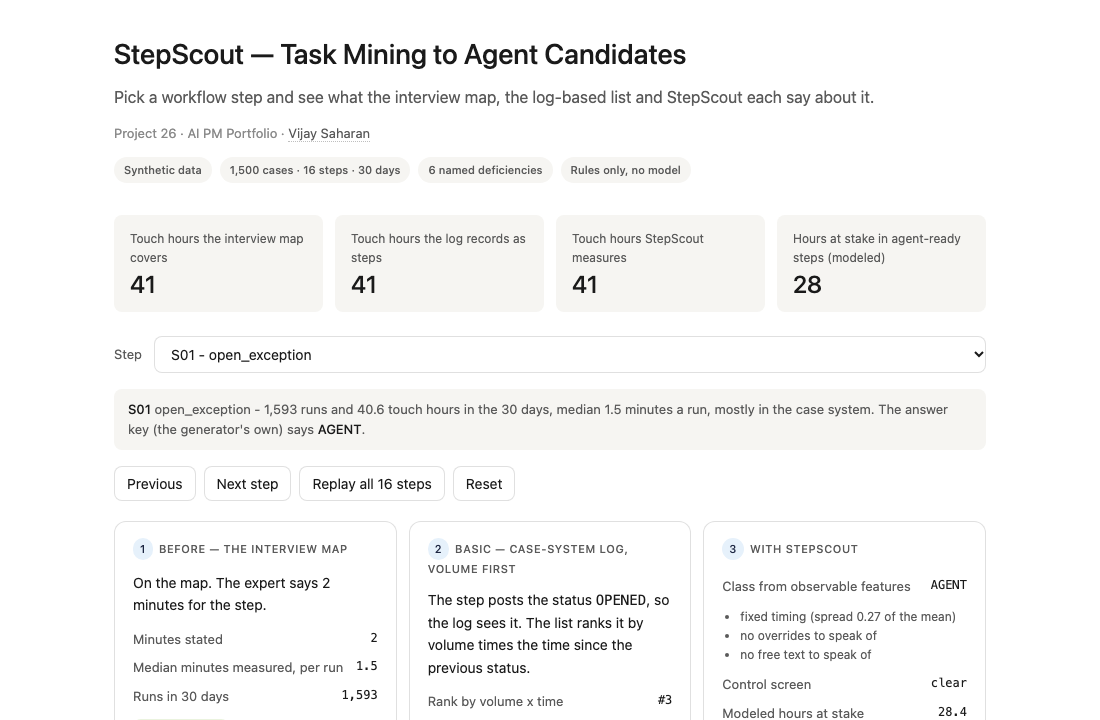
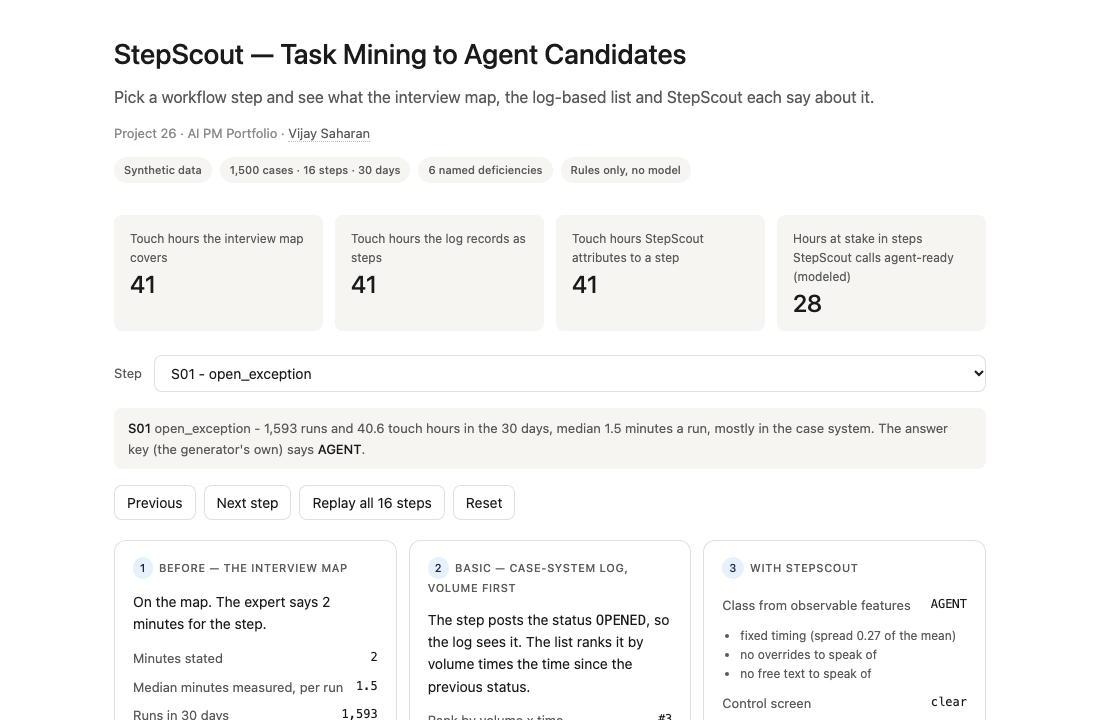
StepScout: document the extra columns load_all reads and define answer key on the first screen
Also: the demo's preview alt text now says 77 runnable prototypes.

diff --git a/26-stepscout-task-mining-agent-candidates/demo.html b/26-stepscout-task-mining-agent-candidates/demo.html
@@ -13,12 +13,12 @@
 <meta property="og:image" content="https://vj-shipped-anyway.github.io/ai-pm-portfolio/assets/og-card.png">
 <meta property="og:image:width" content="1200">
 <meta property="og:image:height" content="630">
-<meta property="og:image:alt" content="AI PM portfolio card: How AI gets into bank operations, 27 runnable prototypes on synthetic data">
+<meta property="og:image:alt" content="AI PM portfolio card: How AI gets into bank operations, 77 runnable prototypes on synthetic data">
 <meta name="twitter:card" content="summary_large_image">
 <meta name="twitter:title" content="StepScout — Task Mining to Agent Candidates">
 <meta name="twitter:description" content="Mines desktop and system events to find which workflow steps an agent can take over, screens them for controls, and writes the build brief.">
 <meta name="twitter:image" content="https://vj-shipped-anyway.github.io/ai-pm-portfolio/assets/og-card.png">
-<meta name="twitter:image:alt" content="AI PM portfolio card: How AI gets into bank operations, 27 runnable prototypes on synthetic data">
+<meta name="twitter:image:alt" content="AI PM portfolio card: How AI gets into bank operations, 77 runnable prototypes on synthetic data">
 <link rel="canonical" href="https://vj-shipped-anyway.github.io/ai-pm-portfolio/26-stepscout-task-mining-agent-candidates/demo.html">
[1 lines of base64/hex data omitted]
 <style>

diff --git a/26-stepscout-task-mining-agent-candidates/src/step_04_with_stepscout.py b/26-stepscout-task-mining-agent-candidates/src/step_04_with_stepscout.py
@@ -14,10 +14,10 @@ What it does, in order
   4. RANK. Modeled hours at stake times readiness. Hours at stake is touch time in the 30 days times ONE
      named assumption: the share of a step's touch time an agent removes (REMOVAL_SHARE). It is modeled,
      never measured.
-  5. BRIEF. Write build-brief/v1 files for the top candidates and validate them with a stdlib check.
-  6. SCORE against the answer key, which is the generator's own: accuracy, precision and recall of
+  5. SCORE against the answer key, which is the generator's own: accuracy, precision and recall of
      agent-ready steps, the top 10 against the volume-first list, the share of handling time recovered,
      and the known miss.
+  6. BRIEF. Write build-brief/v1 files for the top candidates and validate them with a stdlib check.
 
 Run (from src/):
     python3 step_04_with_stepscout.py
@@ -50,7 +50,7 @@ N_BRIEFS = 3
 OCC_GAP_S = 600                      # two events of one step more than 10 minutes apart are two occurrences
 JUDGE_OVERRIDE, JUDGE_TEXT, JUDGE_REPEAT, JUDGE_CV, JUDGE_NEED = 0.20, 200.0, 1.30, 0.50, 2
 HITL_OVERRIDE, HITL_TEXT, HITL_WRITE, HITL_OUTWARD = 0.05, 80.0, 0.50, 0.50
-STATUS_TOLERANCE_S = (-5, 120)       # an occurrence ends from 5 seconds after to 120 seconds before its status event
+STATUS_TOLERANCE_S = (-5, 120)       # an occurrence ends from 120 seconds before to 5 seconds after its status event
 READ_ACTIONS = ("read", "search", "open", "copy")
 BRIEF_SCHEMA = "build-brief/v1"
 
@@ -229,7 +229,7 @@ def rank_candidates(classes: dict, stats: dict, register: dict, screen: dict) ->
 
 
 # ---------------------------------------------------------------------------
-# 5. Build briefs
+# 6. Build briefs (defined here; analyze() runs it after the scoring in step 5)
 # ---------------------------------------------------------------------------
 BRIEF_KEYS = ["schema", "brief_id", "candidate", "scope", "inputs", "tools", "controls", "acceptance", "test_plan",
               "rollout", "handoff", "estimate"]
@@ -440,7 +440,7 @@ def validate_brief(b: dict) -> list:
 
 
 # ---------------------------------------------------------------------------
-# 6. Score and assemble
+# 5. Score and assemble
 # ---------------------------------------------------------------------------
 def analyze(data: dict) -> dict:
     reg, key = data["register"], data["key"]

diff --git a/26-stepscout-task-mining-agent-candidates/src/app.py b/26-stepscout-task-mining-agent-candidates/src/app.py
@@ -335,7 +335,7 @@ if st.session_state.step >= 3:
         tone, verdict = "verdict-pass", f"Matches the answer key ({esc(P['key'])})."
     elif P["agent_ready_pred"] and not P["agent_ready_key"]:
         tone = "verdict-review"
-        verdict = (f"MISSED. The key says {esc(P['key'])}. On the desktop this step is a short pick with tight timing, no free text and no overrides, "
+        verdict = (f"MISSED. The key says {esc(P['key'])}. On the desktop this step is a short pick with tight timing, no free text and almost no overrides, "
                    "so nothing observable separates it from a rule. The judgment happens in a phone call that no file records.")
     else:
         tone = "verdict-review"
@@ -416,7 +416,7 @@ if st.session_state.step >= 4:
     st.markdown("<div class='trust-card quiet'><h4>What it still gets wrong</h4><ul>" + "".join(f"<li>{esc(w)}</li>" for w in wrong if w) + "</ul></div>",
                 unsafe_allow_html=True)
 
-    st.markdown("**Touch hours by step, coloured by the class StepScout gave it**")
+    st.markdown("**Touch hours by step, colored by the class StepScout gave it**")
     st.caption("From desktop events. Blue steps are candidates; grey steps stay with a person.")
     colors = {"AGENT": "#059669", "AGENT_HITL": "#1f5fb0", "HUMAN_JUDGMENT": "#94a3b8", "HUMAN_CONTROL": "#64748b"}
     fig = go.Figure()
@@ -460,7 +460,6 @@ if st.session_state.step >= 4:
             "touch hours": round(r["touch_hours"], 1), "hours at stake (modeled)": round(r["hours_at_stake"], 1),
             "control screen": r["screen"]} for r in A["ranked"]]), use_container_width=True, hide_index=True)
         st.markdown("**The two top-10 lists side by side**")
-        vf = {r["step"]: r["rank"] for r in A["log"]["candidates"]}
         st.dataframe(pd.DataFrame([{
             "position": i + 1,
             "volume-first": f"{a} {DATA['register'][a]['name']}", "volume-first: agent-ready by key": "yes" if a in SC["true_ready"] else "no",

diff --git a/26-stepscout-task-mining-agent-candidates/src/_build_demo.py b/26-stepscout-task-mining-agent-candidates/src/_build_demo.py
@@ -301,12 +301,12 @@ def build_html(p: dict) -> str:
 <meta property="og:image" content="https://vj-shipped-anyway.github.io/ai-pm-portfolio/assets/og-card.png">
 <meta property="og:image:width" content="1200">
 <meta property="og:image:height" content="630">
-<meta property="og:image:alt" content="AI PM portfolio card: How AI gets into bank operations, 27 runnable prototypes on synthetic data">
+<meta property="og:image:alt" content="AI PM portfolio card: How AI gets into bank operations, 77 runnable prototypes on synthetic data">
 <meta name="twitter:card" content="summary_large_image">
 <meta name="twitter:title" content="StepScout — Task Mining to Agent Candidates">
 <meta name="twitter:description" content="Mines desktop and system events to find which workflow steps an agent can take over, screens them for controls, and writes the build brief.">
 <meta name="twitter:image" content="https://vj-shipped-anyway.github.io/ai-pm-portfolio/assets/og-card.png">
-<meta name="twitter:image:alt" content="AI PM portfolio card: How AI gets into bank operations, 27 runnable prototypes on synthetic data">
+<meta name="twitter:image:alt" content="AI PM portfolio card: How AI gets into bank operations, 77 runnable prototypes on synthetic data">
 <link rel="canonical" href="https://vj-shipped-anyway.github.io/ai-pm-portfolio/26-stepscout-task-mining-agent-candidates/demo.html">
[1 lines of base64/hex data omitted]
 <style>{CSS}</style>

diff --git a/26-stepscout-task-mining-agent-candidates/data/_generate.py b/26-stepscout-task-mining-agent-candidates/data/_generate.py
@@ -23,7 +23,7 @@ added here (S13 to S16). Two of them are decoys, and the printed answer key says
   S13 triage_beneficiary_bank_reply: HUMAN_JUDGMENT, high volume, long waits, posts a status, so a
       ranking by volume times time puts it near the top.
   S14 choose_resolution_route: HUMAN_JUDGMENT that looks rule-based. On the desktop it is a short,
-      tight-timed dropdown pick with no free text and no overrides. The judgment is made in a phone
+      tight-timed dropdown pick with no free text and almost no overrides. The judgment is made in a phone
       call before the pick, and no event file sees the call. It is the known miss.
 Everything is synthetic. No real bank, process, vendor or person. No model is used anywhere.
 

diff --git a/26-stepscout-task-mining-agent-candidates/src/real_bpi2012.py b/26-stepscout-task-mining-agent-candidates/src/real_bpi2012.py
@@ -3,7 +3,7 @@
 The default walkthrough runs on synthetic data, where the generator knows the answer. This script asks
 the same questions of a real log, so the effect can be seen once without a planted signal. The log is
 the BPI Challenge 2012 event log of a loan-application process at a financial institution (van Dongen,
-2012, DOI 10.4121/uuid:3926db30-f712-4394-aebc-75976070e91f; licence: 4TU General Terms of Use).
+2012, DOI 10.4121/uuid:3926db30-f712-4394-aebc-75976070e91f; license: 4TU General Terms of Use).
 
 What it can answer from a case-system log alone:
   - how many real paths the cases take, and how much of the work the most common path covers

diff --git a/26-stepscout-task-mining-agent-candidates/README.md b/26-stepscout-task-mining-agent-candidates/README.md
@@ -1,6 +1,6 @@
 # 🔎 StepScout — Task Mining to Agent Candidates
 
-**A portfolio prototype for finding which steps of an operations workflow an AI agent can take over: task-level mining of desktop and system events, a readiness and control screen per step, a ranked candidate list with hours at stake, and a build brief an engineer can pick up. Written against the 'Map' function of the [NIST AI RMF](https://www.nist.gov/itl/ai-risk-management-framework): know the context an AI system will work in before you point it at anything.**
+**A portfolio prototype for an operations lead who has to choose which steps of a workflow an AI agent can take over: task-level mining of desktop and system events, a readiness and control screen per step, a ranked candidate list with hours at stake, and a build brief an engineer can pick up. Written against the 'Map' function of the [NIST AI RMF](https://www.nist.gov/itl/ai-risk-management-framework): know the context an AI system will work in before you point it at anything.**
 
 **▶ Static demo, no install:** [open on GitHub Pages](https://vj-shipped-anyway.github.io/ai-pm-portfolio/26-stepscout-task-mining-agent-candidates/demo.html)
 
@@ -11,6 +11,8 @@
 - 🟢 Interview map: 24.8% of cases, 1 of 151 real paths (`step_03`)
 - 🟢 Off-system work: 44.8% of touch time is outside the case system; the interview names 3 of the 6 applications (`step_03`)
 - 🟢 Known miss, left in on purpose: S14 choose_resolution_route is classified AGENT; the key says HUMAN_JUDGMENT. It ranks #10 (`step_04`)
+
+_In this README the answer key is the generator's own record of which steps an agent can take over, and a volume-first list is the usual candidate list: steps ranked by case count times elapsed time between statuses in the case system's log._
 
 _A portfolio prototype on synthetic data, not a production case study. A separate [real-data mode](#-real-data-mode-one-public-loan-application-log) asks the case-log questions of one public loan-application log. The framing and how to read the numbers are folded below._
 
@@ -75,7 +77,7 @@ Teams that want to put an agent on part of an operations queue usually pick the 
 | Hours at stake | 🟡 950 stated hours (cases times 38 minutes) | Elapsed hours, waiting included | Elapsed hours, waiting included | 🟡 Modeled touch hours with one named assumption, never measured |
 | Where it still fails | One expert's happy path | Cannot see a step that posts no status; counts waiting as work | Judgment steps rise to the top because they wait | A judgment made off the desktop looks like a rule: 🟢 S14 is the known miss |
 
-**Position:** *StepScout does not replace the interview, the case system's log or the intake process. It adds the step-level evidence that sits between "we should put an agent here" and an engineer's first line of code: how long each step really takes a person, what it looks like when a person does it, whether it touches a control, and what it is worth if an agent took it over. The interview says where to look, the log says what the case system saw, and this says what a person did.* It does not decide which pilots a bank funds or what an agent is permitted to do: those are owned by 11 TierGate and 12 ValueLedger (intake and the business case) and by 23 ScopeKeeper (agent permissions); see the interlocks below.
+**Position:** *StepScout does not replace the interview, the case system's log or the intake process. It adds the step-level evidence that sits between "we should put an agent here" and an engineer's first line of code: how long each step really takes a person, what it looks like when a person does it, whether it touches a control, and what it is worth if an agent took it over. The interview says where to look, the log says what the case system saw, and this says what a person did.* It does not decide which pilots a bank funds or what an agent is permitted to do: those are owned by 11 TierGate (intake), 12 ValueLedger (benefit tracking against the business case) and 23 ScopeKeeper (agent permissions); see the interlocks below.
 
 ---
 
@@ -826,7 +828,7 @@ To point it at your own queue, replace these files and keep their columns:
 - `data/cases.csv`: `case_id, created, first_closed, final_closed, reason_code, variant_id, reopened, primary_worker`. `true_path` and `offdesk_min_truth` are the generator's own record
 - `data/sme_process_map.csv`: your interview notes
 
-The functions that do the work take plain lists and dicts, so you can call them directly:
+`load_all` reads the generator-only columns too (`truth_class`, the `planted_*` columns, `true_path` and `offdesk_min_truth`), so on your own export fill them with placeholders (`0` for the numbers, blank for `truth_class` and `true_path`) or edit `split_catalog` and `load_all`. The answer-key scores in step 4 are then meaningless. The functions that do the work take plain lists and dicts, so you can call them directly:
 
 ```python
 # from src/

diff --git a/26-stepscout-task-mining-agent-candidates/data/real/README.md b/26-stepscout-task-mining-agent-candidates/data/real/README.md
@@ -14,22 +14,22 @@ The log is not in this repo. `fetch_bpi2012.py` downloads it from the 4TU.Resear
 | First published | 2012-04-23 |
 | What it is | An event log of a loan-application process at a financial institution, in XES format |
 | File | `BPI_Challenge_2012.xes.gz`, 3,342,406 bytes, MD5 `74c7ba9aba85bfcb181a22c9d565e5b5` |
-| Licence on the record | 4TU General Terms of Use |
+| License on the record | 4TU General Terms of Use |
 
 **Citation.** van Dongen, Boudewijn (2012): BPI Challenge 2012. Version 1. 4TU.ResearchData. dataset. https://doi.org/10.4121/uuid:3926db30-f712-4394-aebc-75976070e91f
 
 ## The terms, read before using it
 
-The record lists the 4TU General Terms of Use, not a Creative Commons licence. The text I read is the August 2016 PDF (`General_terms_of_use.pdf`, MD5 `5a37f1aea024a6339971a69994e094d5`). This table is my summary of what it asks, not legal advice; the PDF governs.
+The record lists the 4TU General Terms of Use, not a Creative Commons license. The text I read is the August 2016 PDF (`General_terms_of_use.pdf`, MD5 `5a37f1aea024a6339971a69994e094d5`). This table is my summary of what it asks, not legal advice; the PDF governs.
 
 | What the terms ask | What this folder does about it |
 | --- | --- |
 | Cite the dataset in the text and in a reference list (Articles 1 and 2). | The citation is above, in the project README, and in the first lines of the committed output. |
-| Remix, transform or build on the data for non-commercial purposes only (Article 4b). | This is a portfolio and teaching artifact. Do not use this log in paid, client or product work. The script accepts any XES file with `--file`, so a log whose licence allows that use can be swapped in. |
+| Remix, transform or build on the data for non-commercial purposes only (Article 4b). | This is a portfolio and teaching artifact. Do not use this log in paid, client or product work. The script accepts any XES file with `--file`, so a log whose license allows that use can be swapped in. |
 | When distributing the data, acknowledge the rights-holder, and say that later distribution must do the same (Article 4a). | The log is not redistributed. It is fetched from the archive on demand and is git-ignored. |
 | Respect copyright on the data (Article 5) and, for personal data, use it only for research (Article 7). | The resource column holds numbers, not names. The script counts distinct resources and reads nothing else about them. |
 
-The MIT licence on this repo covers the code. It does not cover the log, and it does not widen the terms above for the numbers printed from it.
+The MIT license on this repo covers the code. It does not cover the log, and it does not widen the terms above for the numbers printed from it.
 
 ## Run it
 

diff --git a/26-stepscout-task-mining-agent-candidates/ARCHITECTURE.md b/26-stepscout-task-mining-agent-candidates/ARCHITECTURE.md
@@ -4,7 +4,7 @@ The systems doc most PM writeups skip. Databases, where the code runs, encryptio
 
 > **Status.** This is the design for the production shape. The repo implements the product mechanic as a prototype (merge, classify, screen, rank and brief, over synthetic events, with a Streamlit app). Nothing below is claimed as deployed or load-tested. The prototype's desktop and status events are written by a generator, so the collector and the labeler are a design and not a build. Where a figure is a design target, it says so (🔴).
 
-This doc is cloud-agnostic where the design allows it and explicit where it doesn't. Every BFSI shop is on AWS, GCP or Azure (or two of three). GCP is shown as primary; AWS and Azure equivalents are called out inline.
+This doc is cloud-agnostic where the design allows it and explicit where it doesn't. Most bank technology estates run on AWS, GCP or Azure, and some on two of the three. GCP is shown as primary; AWS and Azure equivalents are called out inline.
 
 ![StepScout flow](./assets/stepscout-flow.svg)
 
